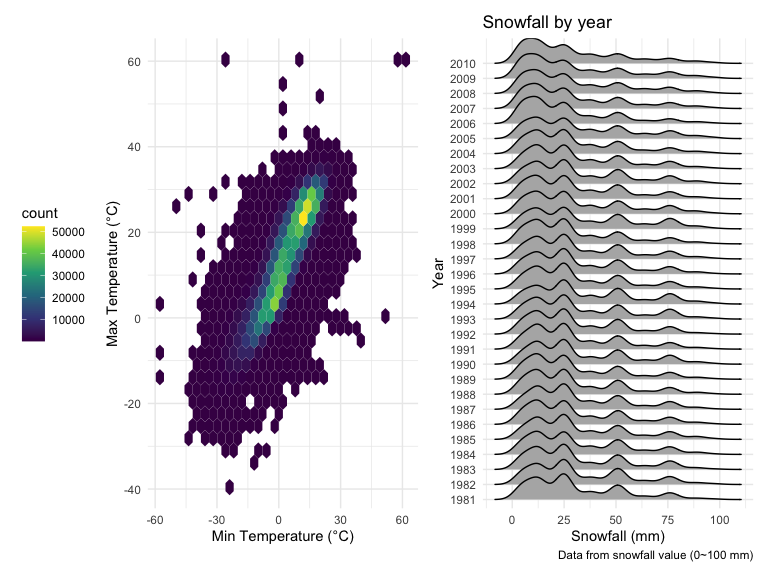
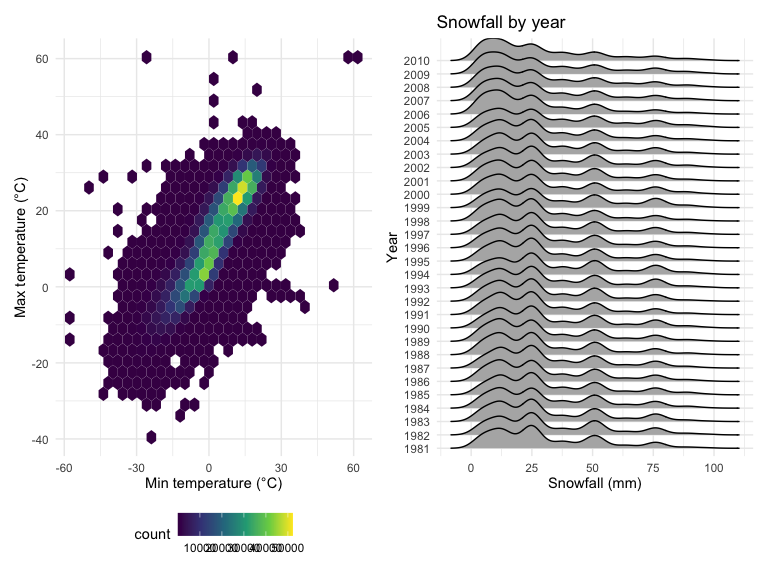
Edit Problem 3 Graph 2

diff --git a/p8105_hw3_zz2900.md b/p8105_hw3_zz2900.md
@@ -310,10 +310,10 @@ p_tmax_tmin =
   ggplot(aes(x = tmin, y = tmax)) +
   geom_hex() +
   labs(
-    x = "Min Temperature (°C)",
-    y = "Max Temperature (°C)"
+    x = "Min temperature (°C)",
+    y = "Max temperature (°C)"
   ) +
-  theme(legend.position = "left")
+  theme(legend.position = "bottom")
 
 p_snowfall =
   noaa_clean %>% 
@@ -322,11 +322,9 @@ p_snowfall =
   ggplot(aes(x = snow, y = year)) +
   geom_density_ridges() +
   labs(
-    title = "Snowfall by year",
-    x = "Snowfall (mm)",
-    y = "Year",
-    caption = "Data from snowfall value (0~100 mm)"
-  ) +
+    title = "Snowfall by year", 
+    x = "Snowfall (mm)", 
+    y = "Year") +
   scale_x_continuous(
     breaks = c(0,25,50,75,100)) +
   scale_y_discrete(
